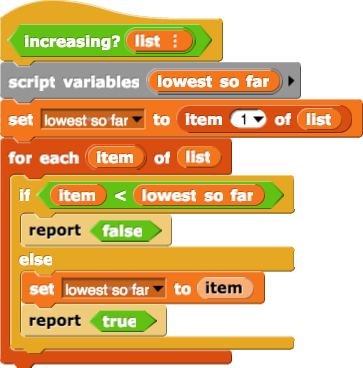
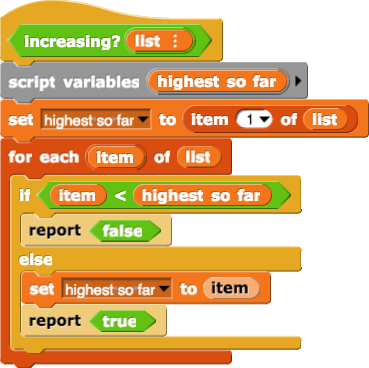
Style guide edit

diff --git a/cur/programming/3-lists/4-magic-square/getting-started.html b/cur/programming/3-lists/4-magic-square/getting-started.html
@@ -9,7 +9,7 @@
 <h2>Getting Started</h2>
 
 
-<p>In this lab, you will write <img src="/bjc-r/img/3-lists/isamagicsquare_block.png" alt="green predicate: is a magic square?" title="green predicate: is a magic square?" /> that reports whether or not a set of numbers forms a <i>magic square</i>. In a <i>magic square</i>, the sum of the numbers in each row, column, and diagonal must be equal.</p>
+<p>In this lab, you will write <img src="/bjc-r/img/3-lists/isamagicsquare_block.png" alt="green predicate: is a magic square?" title="green predicate: is a magic square?" /> that reports whether or not a set of numbers forms a <em>magic square</em>. In a magic square, the sum of the numbers in each row, column, and diagonal must be equal.</p>
 
 <p> The data in this list: <img src="/bjc-r/img/3-lists/square_12_13_14.png" alt="square_12,13,14,10,18,11,17,15,16" title="square_12,13,14,10,18,11,17,15,16"> corresponds to this 3-by-3 grid of numbers:<br> <img class="indent" border="0" src="/bjc-r/img/3-lists/magic_square.png" alt="square_12,13,14,10,18,11,17,15,16" title="square_12,13,14,10,18,11,17,15,16">
 
@@ -54,7 +54,7 @@ Now that you've had some experience deciding what makes something a magic square
 <ol start="2">
   <li> <i>Using as much detail as possible</i>, you and your partner should <em>each</em> write down&mdash;in words, not in code&mdash;an algorithm that you can use to decide whether or not a list of 9 numbers forms a magic square.</li>
   <li> Exchange your algorithm with your partner. Follow your partner's algorithm on this list: <img src="/bjc-r/img/3-lists/square_3_2_1.png" alt="square_3,2,1,1,3,2,2,1,3" title="square_3,2,1,1,3,2,2,1,3"></li>
-  <li><img src="/bjc-r/img/icons/talk-with-your-partner.png" alt="Talk with Your Partner" title="Talk with Your Partner" />Discuss any improvements or clarifications needed to make your algorithms as clear as possible.</li>
+  <li><img src="/bjc-r/img/icons/talk-with-your-partner-mini.png" alt="Talk with Your Partner" title="Talk with Your Partner" />Discuss any improvements or clarifications needed to make your algorithms as clear as possible.</li>
 </ol>
 
 </div>

diff --git a/cur/programming/3-lists/3-using-hof/when-you-really-have-to-loop.html b/cur/programming/3-lists/3-using-hof/when-you-really-have-to-loop.html
@@ -37,7 +37,7 @@
           <div class="stagedir">They pause to think.</div>
       <div><span>Betty:</span> I think we can do this better. We don't need to keep track of the item number because we don't care where the out-of-order numbers are. Also, we don't need the middle step of making a list of "true"s and "false"s. As soon as one of the comparisons is "false", we know <code>increasing?</code> is false. </div>
       <div><span>Alphie:</span> You're saying we don't care about the item number, just the item itself. So we could use a <code>for each</code> loop. For each item in the list, we compare it to... what? </div>
-      <div><span>Betty:</span> What if we make a variable that keeps track of the lowest number so far? Then we can check each item against that number, then reset the variable to equal to current item.</div>
+      <div><span>Betty:</span> What if we make a variable that keeps track of the highest number so far? Then we can check each item against that number, then reset the variable to equal to current item.</div>
       <div><span>Alphie:</span> Ok, here's what I have so far.</div>
           <div class="stagedir"><a class="run" href="/bjc-r/prog/3-lists/U3Lab3Increasing.xml"> <img border="0" title="increasing script (with mistake)" alt="increasing script (with mistake)" src="/bjc-r/img/3-lists/increasing_wrongscript.png" /> </a></div>
     </div>
@@ -47,7 +47,7 @@
     	<ol start="2">
         <li>Alphie and Betty's script contains a mistake! For example, their script gives this result:<br>
         <img border="0" title="increasing(1,7,4,10)=true" alt="increasing(1,7,4,10)=true" src="/bjc-r/img/3-lists/increasing_truemistake.png" /><br>
-        Click their script to open a new file and fix their code.</li>
+        Click their script to open their project and fix their code.</li>
         </ol>
     </div>
         

diff --git a/docs/style_guide.html b/docs/style_guide.html
@@ -112,6 +112,7 @@
                         <li>Do you have any examples that break or challenge this rule?</li>
                     </ul>                 
                 </li>
+                <li>Lists have items. not members or elements, because of the ITEM block.  And reporters report (not return) values.</li>
                 <li>Use the "strong" tag for <strong>bold</strong>. Introduce <strong>new terms</strong> using the strong tag.</li>
                 <li>Use the "em" tag for <em>italics</em>. The "em" tag is for <em>em</em>phasis.</li>
                 <!-- block (code tag) vs. palette (quotes) vs. variable (italics, but even if block?) vs. new term (bold)-->
